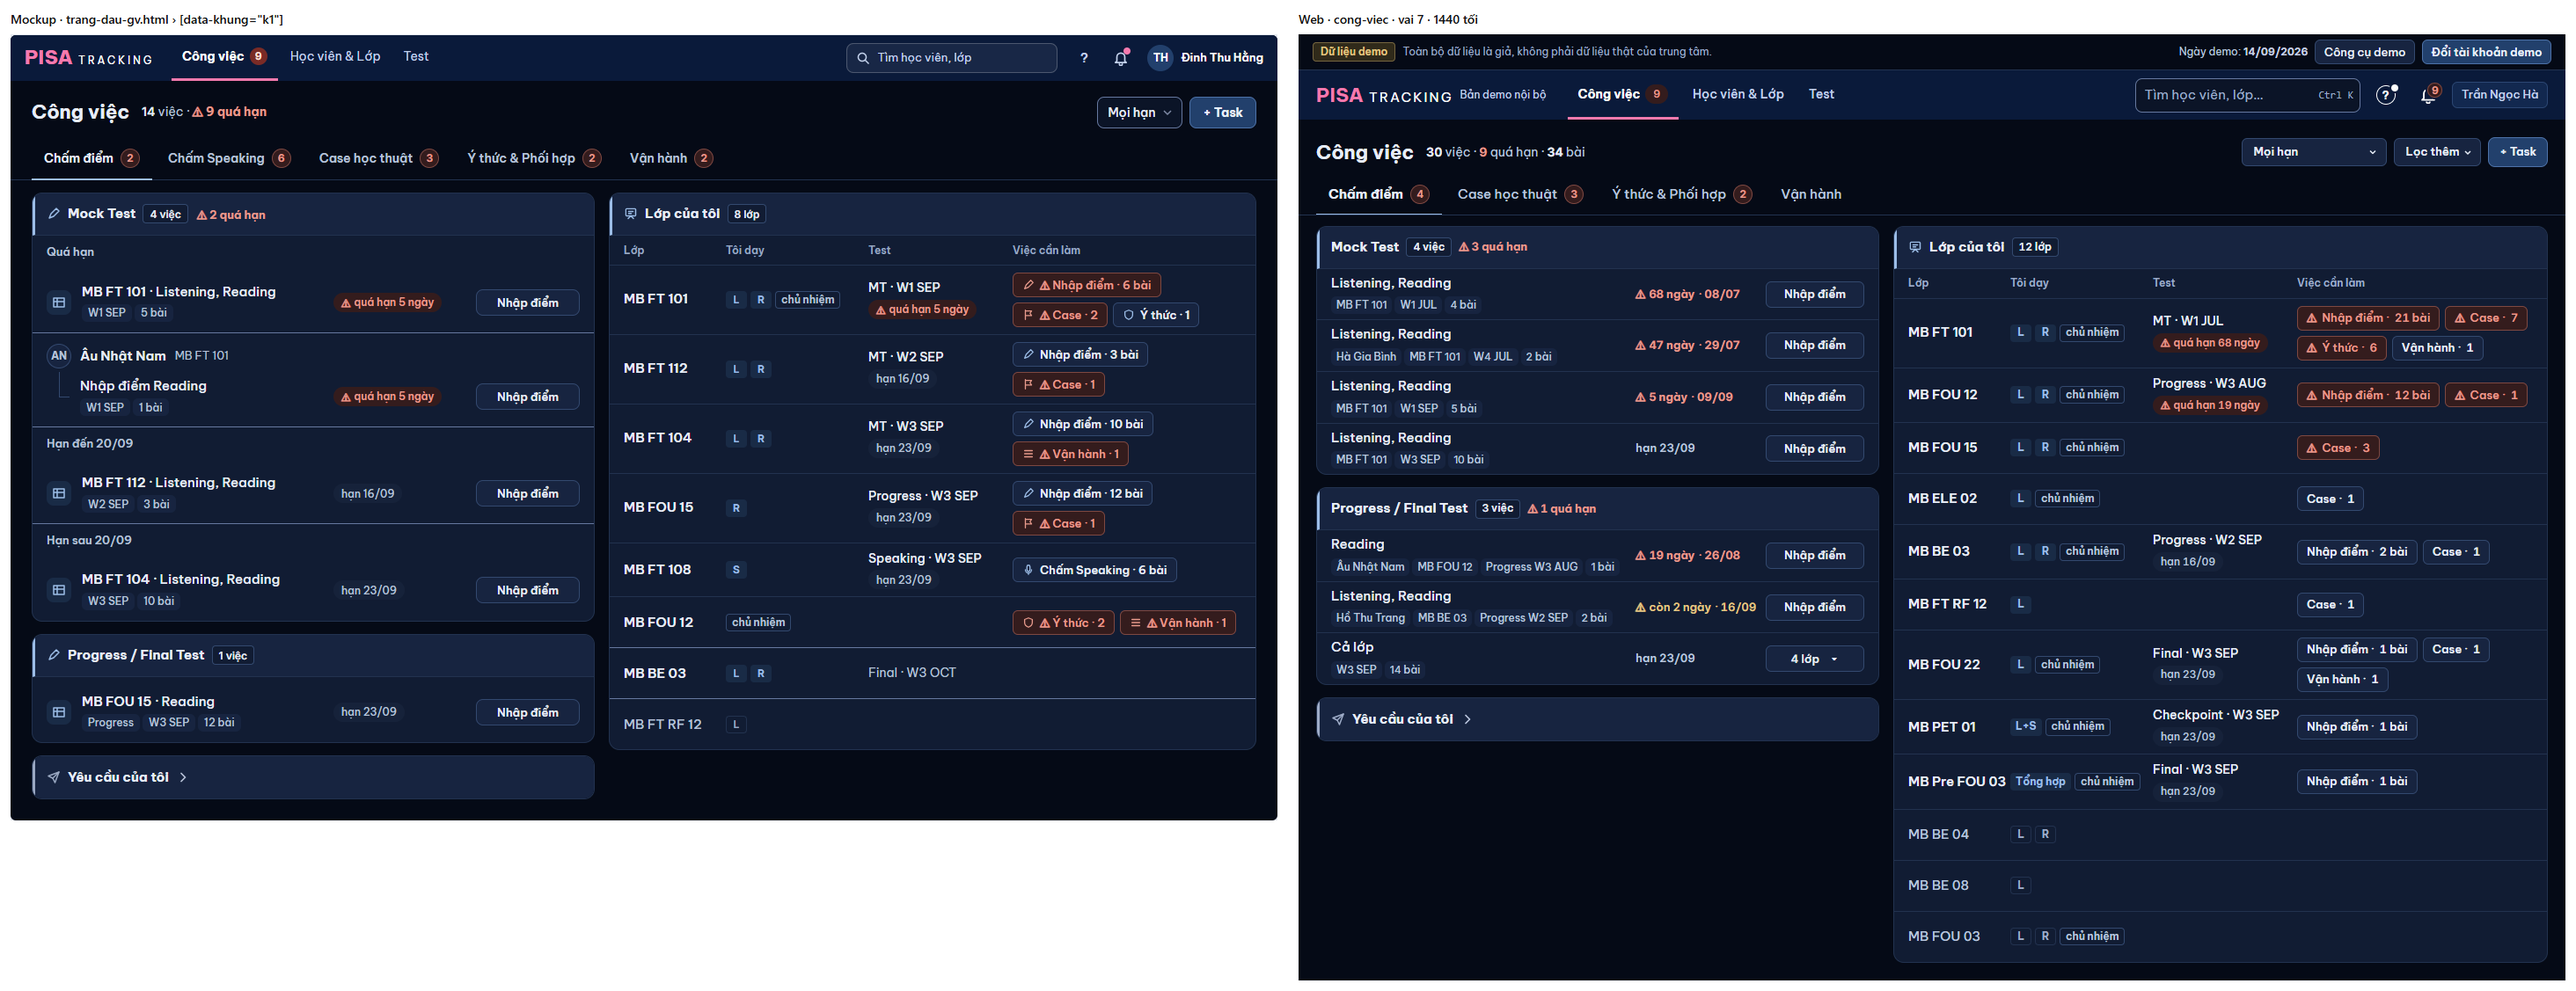
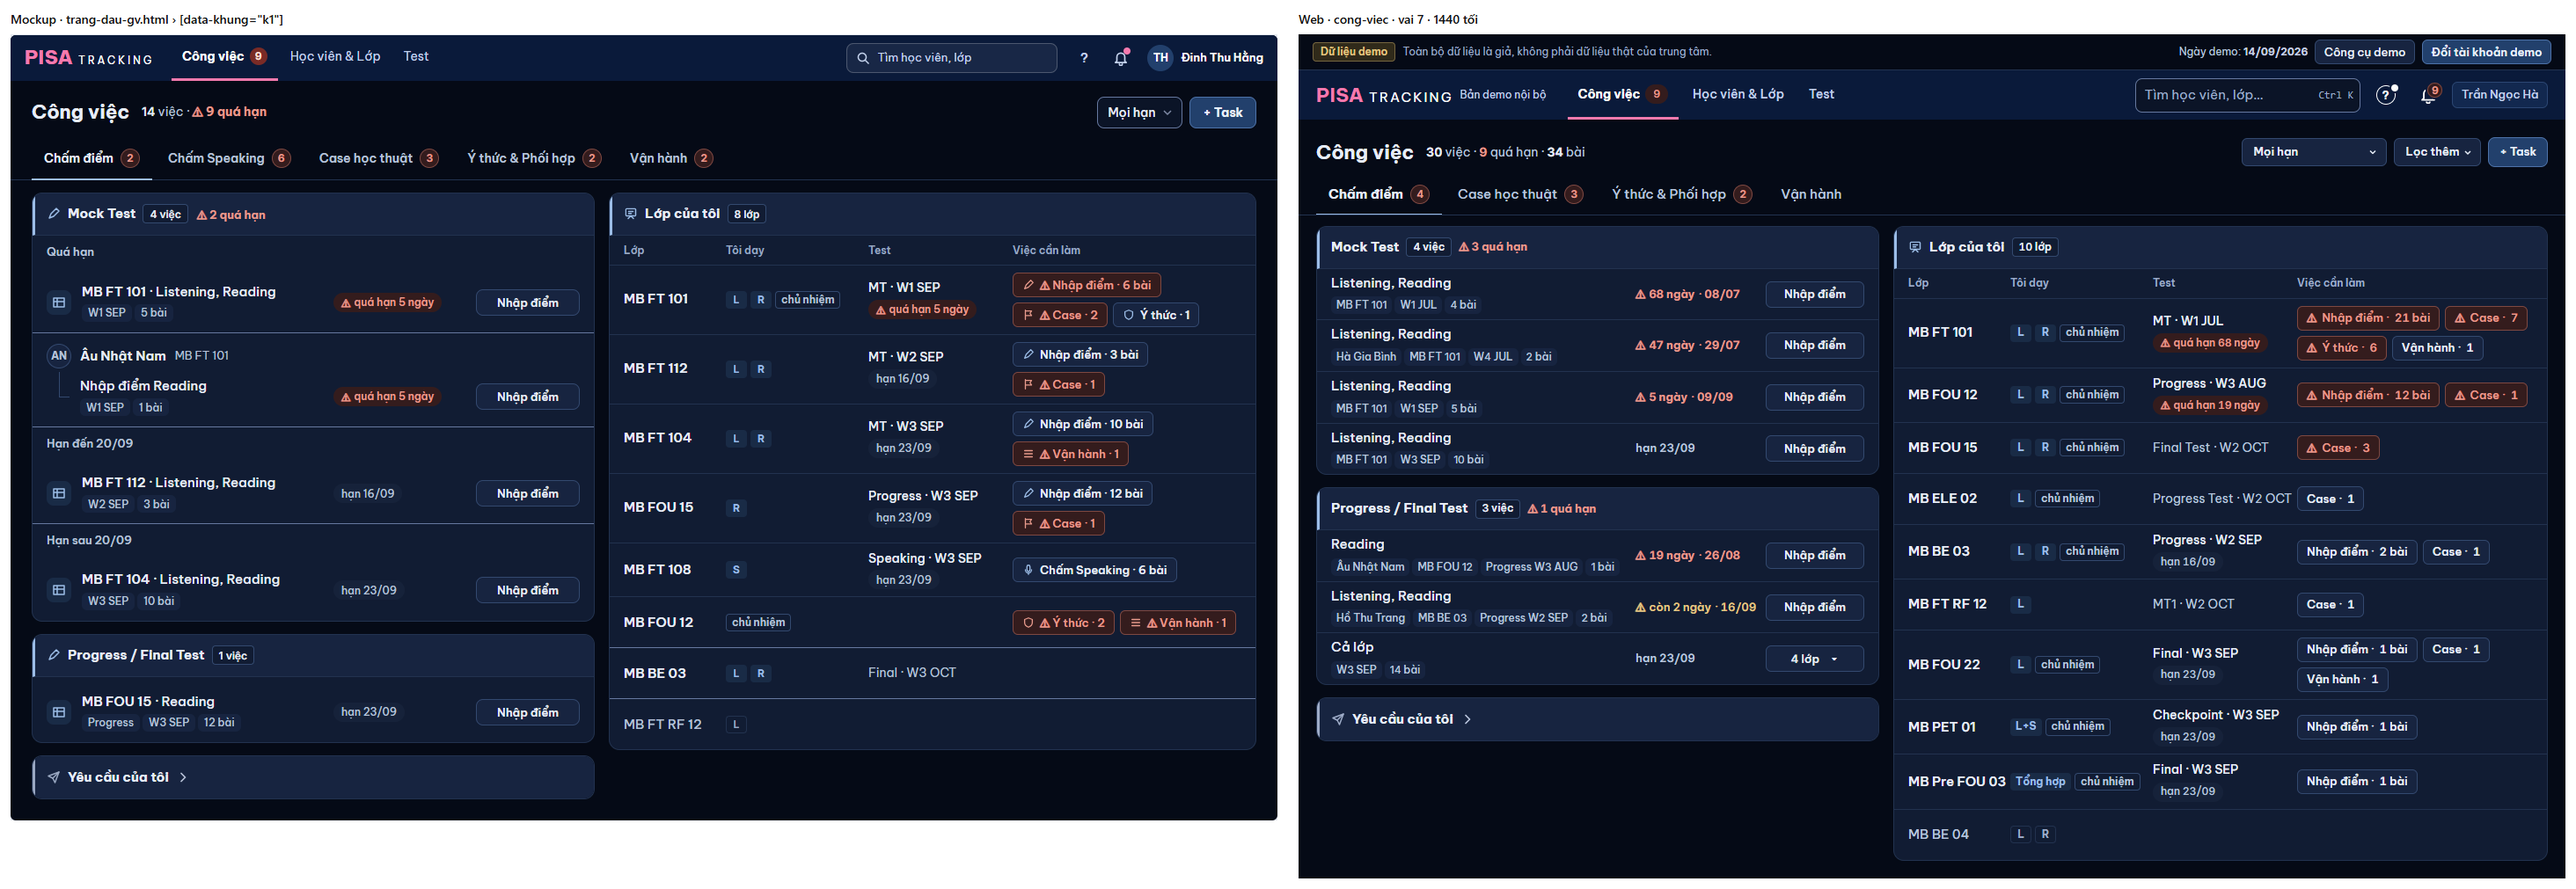
GD-1: trần đo trang đầu GV (43 câu / 3 GET) + /tim/hoc-vien, ảnh cặp sau gộp LG-8

diff --git a/server/src/tests/tocDoDuong.ts b/server/src/tests/tocDoDuong.ts
@@ -548,8 +548,8 @@ export const TRAN: Record<string, number> = {
   /* DOC-IT-4: đo 3 câu mọi vai → max(đo+10, ⌈đo×1,3⌉). */
   'QL /ref/classes': 13, 'GVCN /ref/classes': 13, 'GVBM /ref/classes': 13, 'GVCN_THUONG /ref/classes': 13, 'QT /ref/classes': 13,
   'QL /ref/classes?branchId={cn}': 13, 'QT /ref/classes?branchId={cn}': 13,
-  /* GD-1: `/tim/hoc-vien` một câu đọc + phần phiên chung (~13 câu mọi đường). */
-  'QL /tim/hoc-vien?q=ng': 16, 'GVCN /tim/hoc-vien?q=ng': 16, 'GVBM /tim/hoc-vien?q=ng': 16,
+  /* GD-1: `/tim/hoc-vien` một câu đọc — đo 3 câu (cả phiên) → đo + 10. */
+  'QL /tim/hoc-vien?q=ng': 13, 'GVCN /tim/hoc-vien?q=ng': 13, 'GVBM /tim/hoc-vien?q=ng': 13,
   'QL /ref/branches': 14,
   /* PR-LUI-b (5f): trần = max(đo+10, ⌈đo×1,3⌉) — đo 06/10. */
   /* P7 SV-LO-TRINH: trần = max(đo+10, ⌈đo×1,3⌉), đo 25/10 — xem trước hộp Tạm dừng/ Kết thúc học. */
@@ -1378,7 +1378,7 @@ export const TAI_TRANG: Record<string, { vai: Vai; urls: string[]; tran: number 
   /* GD-1 (Overhaul V6): trang đầu GV = Công việc — "Lớp của tôi" dựng từ phiên + `/my-work` đã nạp (0 GET thêm); bỏ `/hai-khoi` + ô Case của Tổng quan GV
      (hai GET đó nay chỉ ở Hồ sơ GV của chính mình). Mục 'GV trang Tổng quan' trên giữ cho Head tutor (vẫn Tổng quan góc nhìn GV tới LG-7). */
   'GV trang đầu Công việc': {
-    vai: 'GVCN', tran: 100,
+    vai: 'GVCN', tran: 56,   // GD-1: đo 43 câu / 3 GET (Tổng quan GV cũ đo 109 câu / 5 GET) → max(43 + 10, ⌈43 × 1,3⌉)
     urls: ['/demo/session', '/my-work', '/yeu-cau/dem'],
   },
   /* OV-10c: Tổng quan TVV ("Học viên của tôi"), CX ("Số liệu"), Admin ("Mock Test") — đo bằng chính vai đó. */

diff --git a/docs/anh/gd1-trang-dau-gv/khop-khac.md b/docs/anh/gd1-trang-dau-gv/khop-khac.md
@@ -19,7 +19,7 @@ Dữ liệu demo khác dữ liệu mockup (8 lớp mockup ↔ 12 lớp của GV 
 | 8 | Mục 13: nút-chip KHÔNG biểu tượng; chữ loại + số; ⚠ + màu khi quá hạn; thứ tự Nhập điểm · Case · Ý thức · Vận hành | `LOAI_CHIP` | cap-1440-toi | KHỚP (mockup còn vẽ biểu tượng — mục 13 thắng) |
 | 9 | Mục 13: "Lớp của tôi" KHÔNG có chip Chấm Speaking | `dungLopCuaToi` bỏ `laViecChamCheo` | — | KHỚP |
 | 10 | R6 (a)(b) FT có bài: "MT · W1 SEP" + chip hạn; quá hạn đỏ | cột Test = bài gần hạn nhất của tôi (`ChipHan vien`) | cap-1440-toi (MB FT 101) | KHỚP |
-| 11 | R6 (c) lớp chưa tới tuần Test: "Final · W3 OCT" mờ, không chip | `testSapToi` (LG-8 #1550) | — (chờ #1550 merge) | KHỚP (mã) |
+| 11 | R6 (c) lớp chưa tới tuần Test: "Final · W3 OCT" mờ, không chip | `testSapToi` (LG-8 #1550) | cap-1440-toi (sau gộp #1550) | KHỚP |
 | 12 | R6 (d) chỉ chủ nhiệm: không bao giờ chip Nhập điểm | chip Nhập điểm chỉ từ việc `score` của chính tôi | cap-1440-toi (MB ELE 02) | KHỚP |
 | 13 | R6 (f) / R7 lớp không có gì: cuối, chữ mờ | sắp xếp (có việc → hạn sớm; rồi có Test; rồi mã lớp) + `nhat` | cap-1440-toi (MB BE 04, BE 08, FOU 03) | KHỚP |
 | 14 | Bấm chip = mở panel tương ứng / sang trang | `onMo` = `mo()` sẵn có (panel tại chỗ, hoặc `href` khi việc không làm tại chỗ) | bấm thử (BE 03 → panel Nhập điểm W2 SEP) | KHỚP |
@@ -63,14 +63,14 @@ Dữ liệu demo khác dữ liệu mockup (8 lớp mockup ↔ 12 lớp của GV 
 Không thao tác nào bị mất.
 
 ## 4. Turso (đo trước → sau)
-- Mở trang đầu GV (GVCN demo): **trước** Tổng quan 107 câu / 5 GET (`/demo/session`, `/my-work`, `/tong-quan/lop-toi-day/hai-khoi`, `/yeu-cau/dem`, `/giao-vien/7/o?cot=case-mo`)
-  → **sau** Công việc __SAU__ câu / 3 GET (`TAI_TRANG['GV trang đầu Công việc']`). "Lớp của tôi" dựng từ phiên + `/my-work` đã nạp: 0 GET thêm.
+- Mở trang đầu GV (GVCN demo): **trước** Tổng quan 109 câu / 5 GET (`/demo/session`, `/my-work`, `/tong-quan/lop-toi-day/hai-khoi`, `/yeu-cau/dem`, `/giao-vien/7/o?cot=case-mo`)
+  → **sau** Công việc **43 câu / 3 GET** (−60 %) (`TAI_TRANG['GV trang đầu Công việc']`). "Lớp của tôi" dựng từ phiên + `/my-work` đã nạp: 0 GET thêm.
 - `/my-work`: thêm trường `baiQuaHan` cho việc Chấm Speaking (số đã có trong vòng lặp) — 0 câu.
-- `/tim/hoc-vien?q=` (mới, chỉ khi gõ trong "+ Task", ≥ 2 ký tự, chờ 250 ms): MỘT câu đọc (≤ 40 dòng) + phần phiên chung; trần `tocDoDuong.ts` 16 câu. Nhẹ hơn `/students?q=` của ô tìm thanh trên (đọc kết quả / Case từng em).
+- `/tim/hoc-vien?q=` (mới, chỉ khi gõ trong "+ Task", ≥ 2 ký tự, chờ 250 ms): MỘT câu đọc (≤ 40 dòng); đo 3 câu cả request, trần `tocDoDuong.ts` 13. Nhẹ hơn `/students?q=` của ô tìm thanh trên (đọc kết quả / Case từng em).
 - Hồ sơ GV của chính mình thêm `/tong-quan/lop-toi-day/hai-khoi` (trước ở Tổng quan) — chỉ khi mở hồ sơ.
 
 ## 5. Phụ thuộc / chưa làm
-- Cột Test "Final · W3 OCT" cho lớp chưa có bài cần trường `testSapToi` của **LG-8 (#1550)**. Chưa merge thì lớp không bài để trống cột Test; danh sách lớp lấy mọi phân công trong phiên (sau LG-8: chỉ lớp còn hiệu lực).
+- Cột Test lớp chưa có bài + danh sách lớp còn hiệu lực: `testSapToi` của **LG-8 (#1550, đã merge)**.
 - Nhóm "Báo cáo PH" trong tab Vận hành hiện việc của **LG-3** (chưa có) — rỗng thì ẩn.
 - Head tutor giữ Tổng quan góc nhìn GV tới **LG-7**.
 
